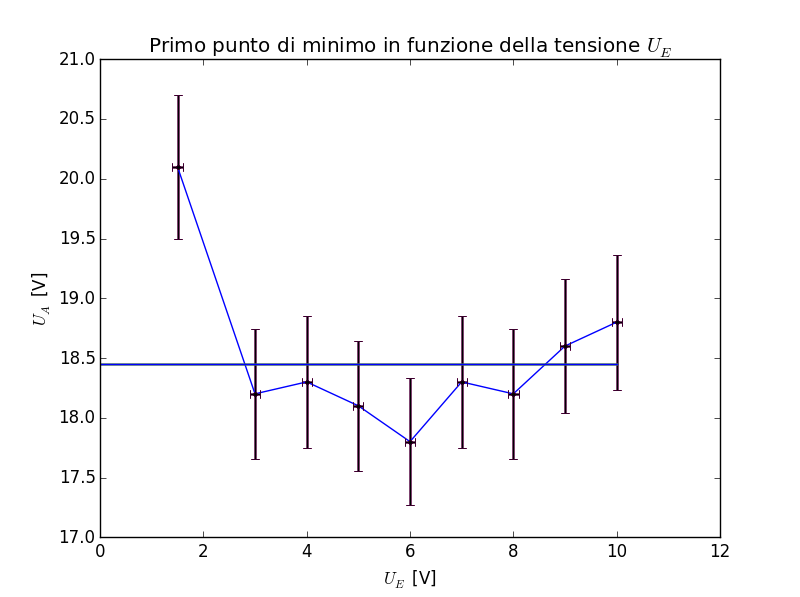
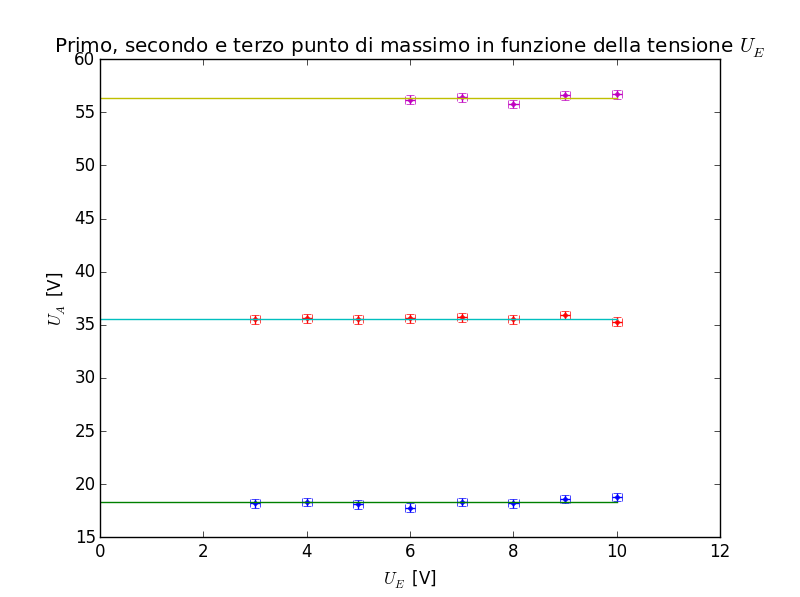
basta

diff --git a/1_Franck_Hertz/relazione/RelazioneFH.tex b/1_Franck_Hertz/relazione/RelazioneFH.tex
@@ -161,37 +161,58 @@ Si riporta quindi la \tablename{~\ref{tab:maxfit}}, contenente i valori dei mass
 		$U_E \unit{}{(\volt)}$ & 1 & 2 & 3 \\
 		\hline 
 		0.3 $\pm$ 0.1 & * & * & * \\
-		1.5 $\pm$ 0.1 & 20.1 $\pm$ 0.6 & * & *  \\
-		3.0 $\pm$ 0.1 & 18.2 $\pm$ 0.6 & 35.5 $\pm$ 0.8 & *  \\
-		4.0 $\pm$ 0.1 & 18.3  $\pm$ 0.6 & 35.6 $\pm$ 0.8 & *  \\
-		5.0 $\pm$ 0.1 & 18.1  $\pm$ 0.6 & 35.5 $\pm$ 0.8 & 68.8 $\pm$ 1.6 \\
-		6.0 $\pm$ 0.1 & 17.8   $\pm$ 0.6 & 35.6 $\pm$ 0.8 & 56.2 $\pm$ 1.4\\
-		7.0 $\pm$ 0.1 &18.3 $\pm$ 0.6 & 35.7 $\pm$ 0.8 & 56.4 $\pm$ 1.4 \\
-		8.0 $\pm$ 0.1 & 18.2 $\pm$ 0.6 & 35.5$\pm$ 0.8 & 55.8 $\pm$ 1.4 \\
-		9.0 $\pm$ 0.1 & 18.6 $\pm$  0.6 & 35.9 $\pm$ 0.8 & 56.6 $\pm$ 1.4 \\
-		10.0 $\pm$ 0.1 & 18.8 $\pm$ 0.6 & 36.3 $\pm$ 0.8 & 56.7 $\pm$ 1.4 \\
+		1.5 $\pm$ 0.1 & 20.1 $\pm$ 0.4  & * & *  \\
+		3.0 $\pm$ 0.1 & 18.2 $\pm$ 0.4 & 35.5 $\pm$ 0.4 & *  \\
+		4.0 $\pm$ 0.1 & 18.3  $\pm$ 0.4 & 35.6 $\pm$ 0.4 & *  \\
+		5.0 $\pm$ 0.1 & 18.1  $\pm$ 0.4 & 35.5 $\pm$ 0.4 & 68.8 $\pm$ 0.4 \\
+		6.0 $\pm$ 0.1 & 17.8   $\pm$ 0.4 & 35.6 $\pm$ 0.4 & 56.2 $\pm$ 0.4\\
+		7.0 $\pm$ 0.1 &18.3 $\pm$ 0.4 & 35.7 $\pm$ 0.4 & 56.4 $\pm$ 0.4 \\
+		8.0 $\pm$ 0.1 & 18.2 $\pm$ 0.4 & 35.5$\pm$ 0.4 & 55.8 $\pm$ 0.4 \\
+		9.0 $\pm$ 0.1 & 18.6 $\pm$  0.4 & 35.9 $\pm$ 0.4 & 56.6 $\pm$ 0.4 \\
+		10.0 $\pm$ 0.1 & 18.8 $\pm$ 0.4 & 36.3 $\pm$ 0.4 & 56.7 $\pm$ 0.4 \\
 		\hline
 	\end{tabular}
-	\captionof{table}{Tabella dei valori dei massimi della curva $I_{C} - U_{A}$ in funzione di $U_E$. Si sono indicati con * i massimi assenti}
+	\captionof{table}{Tabella dei valori dei massimi della curva $I_{C} - U_{A}$ in funzione di $U_E$. Si sono indicati con * i massimi assenti. Sono stati segnati in tabella solo gli errori di digitalizzazione, considerati scorrelati fra le diverse misure. Tutte le misure sono inoltre da intendersi con un ulteriore errore del 3\% totalmente correlato. Per maggiori dettagli si legga l'apposita sezione delle note}
 	\label{tab:maxfit}
 \end{table}
 
+
 Ci si attende che la spaziatura fra due massimi successivi sia pressoché costante \footnote{A meno di effetti dovuti al cammino libero medio, trascurabili in prima approssimazione}.
 
-%Se vuoi qui puoi riportare la tabella delle differenze
 
-Si riporta infine in \figurename{~\ref{fig:final}} il grafico dell'andamento dei massimi di corrente anodica in funzione della tensione frenante $U_E$.
+Si riporta infine in \figurename{~\ref{fig:final}} il grafico dell'andamento dei punti di massimo di corrente anodica in funzione della tensione frenante $U_E$. Come ci si sarebbe potuto aspettare la tensione di minimo non dipende dalla tensione frenante. In effetti essa serve solamente a impedire agli elettroni che abbiano subito uno scattering anelastico di raggiungere l'anodo, contribuendo alla corrente. 
 
 \begin{figure}[h!]
 	\centering
 	\includegraphics[width=0.80\textwidth]{../grafici/finale.pdf}
-	\caption{Andamento della tensione $U_A$ corrispondente ai massimi di $I_C$, in funzione di $U_E$}
+	\caption{Andamento della tensione $U_A$ corrispondente ai massimi di $I_C$, in funzione di $U_E$, e le relative medie. I punti sperimentali segnati in rosso sono stati considerati come outliers e scartati}
 	\label{fig:final}
 \end{figure}
 
-\emph{\LARGE Andre io il grafico non lo vedo, quindi queste osservazioni devi farle necessariamente tu ---> Falle! \\	
-E scrivi esplicitamente il confronto con le tensioni trovate ad occhio e riportate in \tablename{~\ref{tab:massimi}} \\
-Ovviamente quando hai fatto cancella questo commento}
+Le medie e i $\chi^2$ ottenuti sono riassunti nella tabella \ref{tab:finale} \\
+\begin{table}[h!]
+	\centering
+	\begin{tabular}{c|c|c|c|c}
+		\hline
+		tipo & media $V$ & errore (+3\% calibrazione) $V$ & $\chi^2/dof$ & p($\chi^2$) \\
+		\hline 
+		primo & 18.28 &0.02 &4.05/7 & 0.22\\
+		secondo& 35.57 & 0.02& 1.34/7 & 0.01\\
+		terzo & 56.34 & 0.03 &3.2/4 & 0.47\\
+		\hline
+
+	\end{tabular}
+	\captionof{table}{Valori ottenuti. Gli errori in tabella sono quelli scorrelati, ai quali va aggiunto il 3\% totalmente correlato fra le varie misure. Si rimanda all'apposita sezione delle note.}
+	\label{tab:finale}
+\end{table}
+
+Questi valori sono da confrontare con i valori stimati nei punti precedenti. Si nota che sia il primo che il secondo massimo sono stati precedentemente sottostimati e non risultano compatibili. Il terzo massimo risulta invece compatibile con l'errore. Il quarto, analizzato nei punti precedenti, è stato qui ignorato.\\
+Si può finalmente valutare la differenza di tensione fra minimi consecutivi:\\
+$U_2-U_1=17.29 \pm 0.3 V$ \\
+$U_3-U_2=20.77 \pm 0.3 V$\\
+Si nota come gli errori su questi ultimi valori non tengano conto dell'errore di calibrazione, considerato sistematico e parzialmente cancellato nella media.
+Questi valori sfortunatamente non sono compatibili all'interno dell'errore sperimentale.
+ 
 
 \section{Note}
 
@@ -203,7 +224,9 @@ Infatti la lettura dei valori era stabile nel tempo, e anche osservando i valori
 
 \subsection{Sulla stima degli errori sulle tensioni relative ai massimi di corrente anodica}
 
-Gli errori sui punti di massimo della corrente anodica sono essenzialmente dovuti all'errore di calibrazione dell'oscilloscopio (3\%).Questo porta ai dati ottenuti in tabella. 
+Per stimare gli errori sulle tensioni di massimo è bene considerare la procedura sperimentale attuata. Si è infatti acquisito al computer il segnale di rampa e corrente digitalizzato con l'oscilloscopio. Questa scelta è stata attuata per massimizzare la velocità in laboratorio(permettendo così di prendere dati per tanti valori di $U_E$), a scapito però della precisione. Il segnale della rampa è stato infatti digitalizzato con un unico fondo-scala con errore di digitalizzazione   di $0.4 V$. Si è dunque scelto di usare proprio l'errore di digitalizzazione come migliore stima dell'errore nella ricerca dei punti di massimo.  Quest'ultima scelta, a posteriori, è parsa ragionevole anche in vista dei valori dei $\chi^2$ riportati in \ref{tab:finale}. Questi errori sono stati considerati scorrelati.
+
+A questo errore si è aggiunto il 3\% (errore di calibrazione del oscilloscopio), trattato questa volta come totalmente correlato tra le diverse misure(fra i diversi minimi e dunque parzialmente cancellato nelle differenze).
 
 \section{Conclusioni}
 L'interpretazione dei fatti sperimentali qui osservati è già riportata nella scheda relativa all'esperienza, che è da considerarsi come un allegato a questo documento.

diff --git a/1_Franck_Hertz/ultimino.py b/1_Franck_Hertz/ultimino.py
@@ -7,11 +7,14 @@ pylab.close("all")
 
 xdata=np.array([1.5,3.0 ,4.0 ,5.0,6.0 ,7.0 ,8.0,9.0 ,10.0])
 ydata=np.array([ 20.1,18.2, 18.3, 18.1, 17.8, 18.3, 18.2, 18.6, 18.8])
-dydata=0.04#0.01*ydata
+pylab.figure(0)
+pylab.errorbar(xdata[0:1], ydata[0:1], [0.4], [0.1], ecolor="r")
+xdata=xdata[1:]
+ydata=ydata[1:]
+dydata=0.4*np.ones(xdata.shape)#0.01*ydata
 dxdata=0.1
 
-pylab.figure(0)
-pylab.title("Primo punto di minimo in funzione della tensione $U_E$")
+pylab.title("Primo, secondo e terzo punto di massimo in funzione della tensione $U_E$")
 pylab.xlabel("$U_E$ [V]")
 pylab.ylabel("$U_A$ [V]")
 pylab.errorbar(xdata, ydata, dydata, dxdata, fmt=".")
@@ -26,20 +29,20 @@ p = scipy.stats.chi2(len(ydata)-1).cdf(chiq)
 
 
 print(a, vara)
-print(chiq, p)
+print(chiq, len(ydata)-1, p)
 
 
 
 
 xdata=np.array([3.0 ,4.0 ,5.0,6.0 ,7.0 ,8.0,9.0 ,10.0])
 ydata=np.array([ 35.5, 35.6, 35.5,  35.6,  35.7, 35.5, 35.9, 35.3])
-dydata=0.04#0.005*ydata
+dydata=0.4*np.ones(xdata.shape)#0.01*ydata
 dxdata=0.1
 
-pylab.figure(1)
-pylab.title("Secondo punto di minimo in funzione della tensione $U_E$")
-pylab.xlabel("$U_E$ [V]")
-pylab.ylabel("$U_A$ [V]")
+#pylab.figure(1)
+#pylab.title("Secondo punto di minimo in funzione della tensione $U_E$")
+#pylab.xlabel("$U_E$ [V]")
+#pylab.ylabel("$U_A$ [V]")
 pylab.errorbar(xdata, ydata, dydata, dxdata, fmt=".")
 
 a, vara = lab.fit_const_yerr(ydata, dydata)
@@ -52,19 +55,22 @@ p = scipy.stats.chi2(len(ydata)-1).cdf(chiq)
 
 
 print(a, vara)
-print(chiq, p)
+print(chiq, len(ydata)-1, p)
 
 
 
 
 xdata=np.array([5.0, 6.0 ,7.0 ,8.0,9.0 ,10.0])
 ydata=np.array([ 58.8, 56.2, 56.4, 55.8, 56.6, 56.7])
-dydata=0.04#0.03*ydata
+pylab.errorbar(xdata[0:1], ydata[0:1], [0.4], [0.1], ecolor="r")
+xdata=xdata[1:]
+ydata=ydata[1:]
+dydata=0.4*np.ones(xdata.shape)#0.01*ydata
 dxdata=0.1
-pylab.figure(2)
-pylab.title("Terzo punto di minimo in funzione della tensione $U_E$")
-pylab.xlabel("$U_E$ [V]")
-pylab.ylabel("$U_A$ [V]")
+#pylab.figure(2)
+#pylab.title("Terzo punto di minimo in funzione della tensione $U_E$")
+#pylab.xlabel("$U_E$ [V]")
+#pylab.ylabel("$U_A$ [V]")
 pylab.errorbar(xdata, ydata, dydata, dxdata, fmt=".")
 
 a, vara = lab.fit_const_yerr(ydata, dydata)
@@ -77,6 +83,6 @@ p = scipy.stats.chi2(len(ydata)-1).cdf(chiq)
 
 
 print(a, vara)
-print(chiq, p)
+print(chiq, len(ydata)-1, p)
 
 
